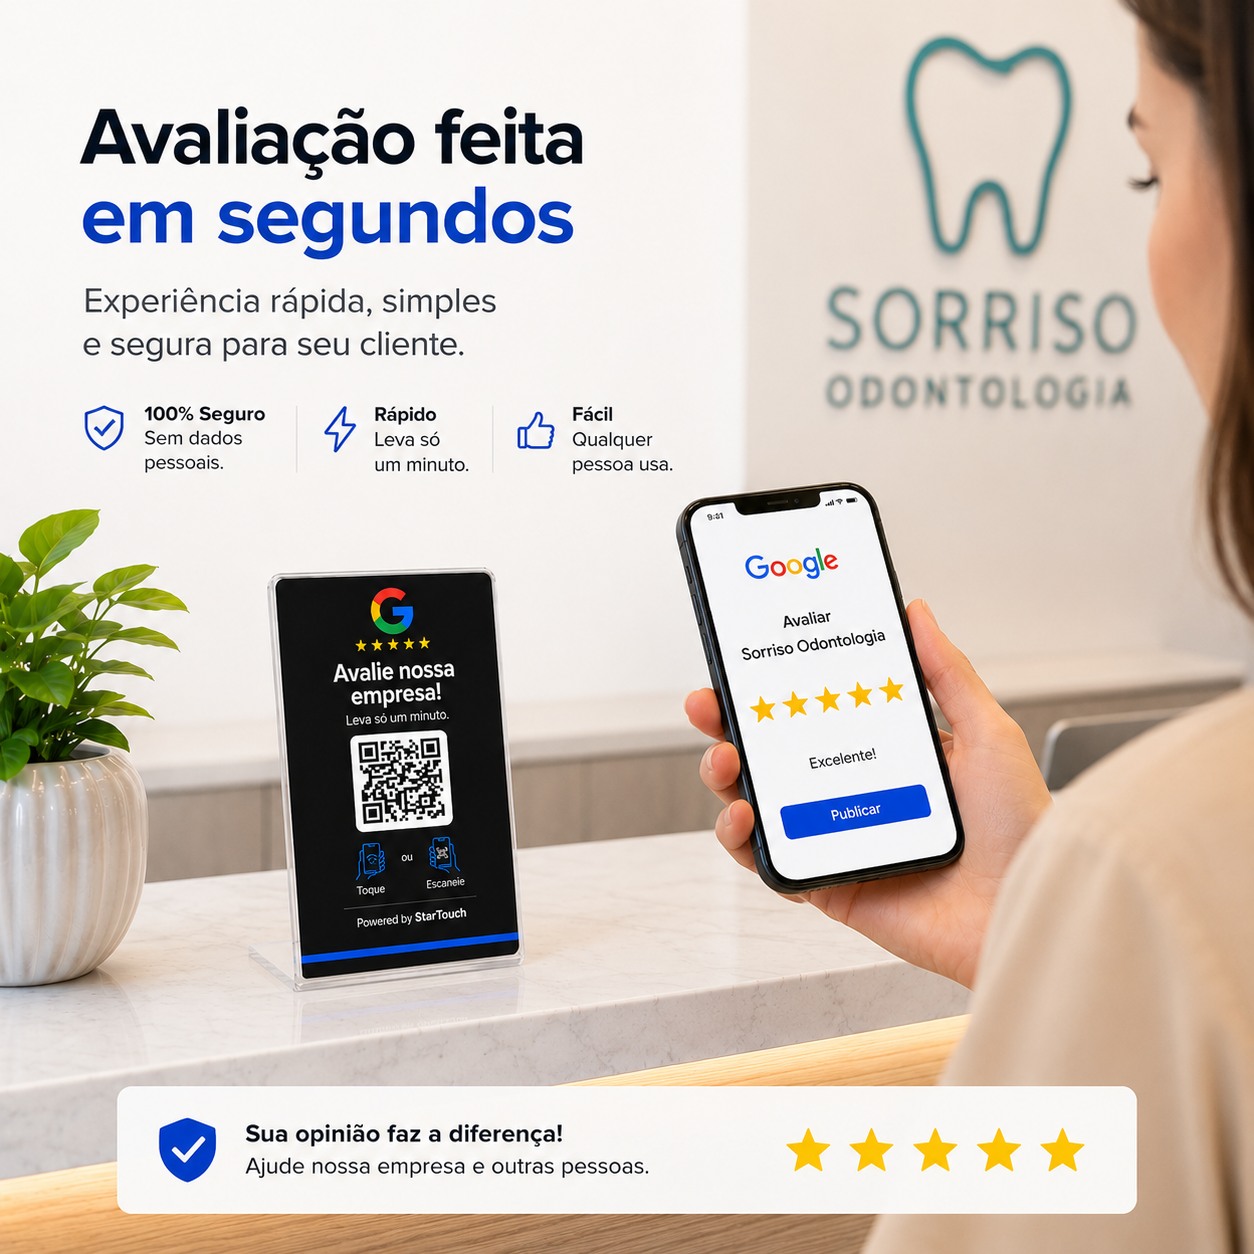
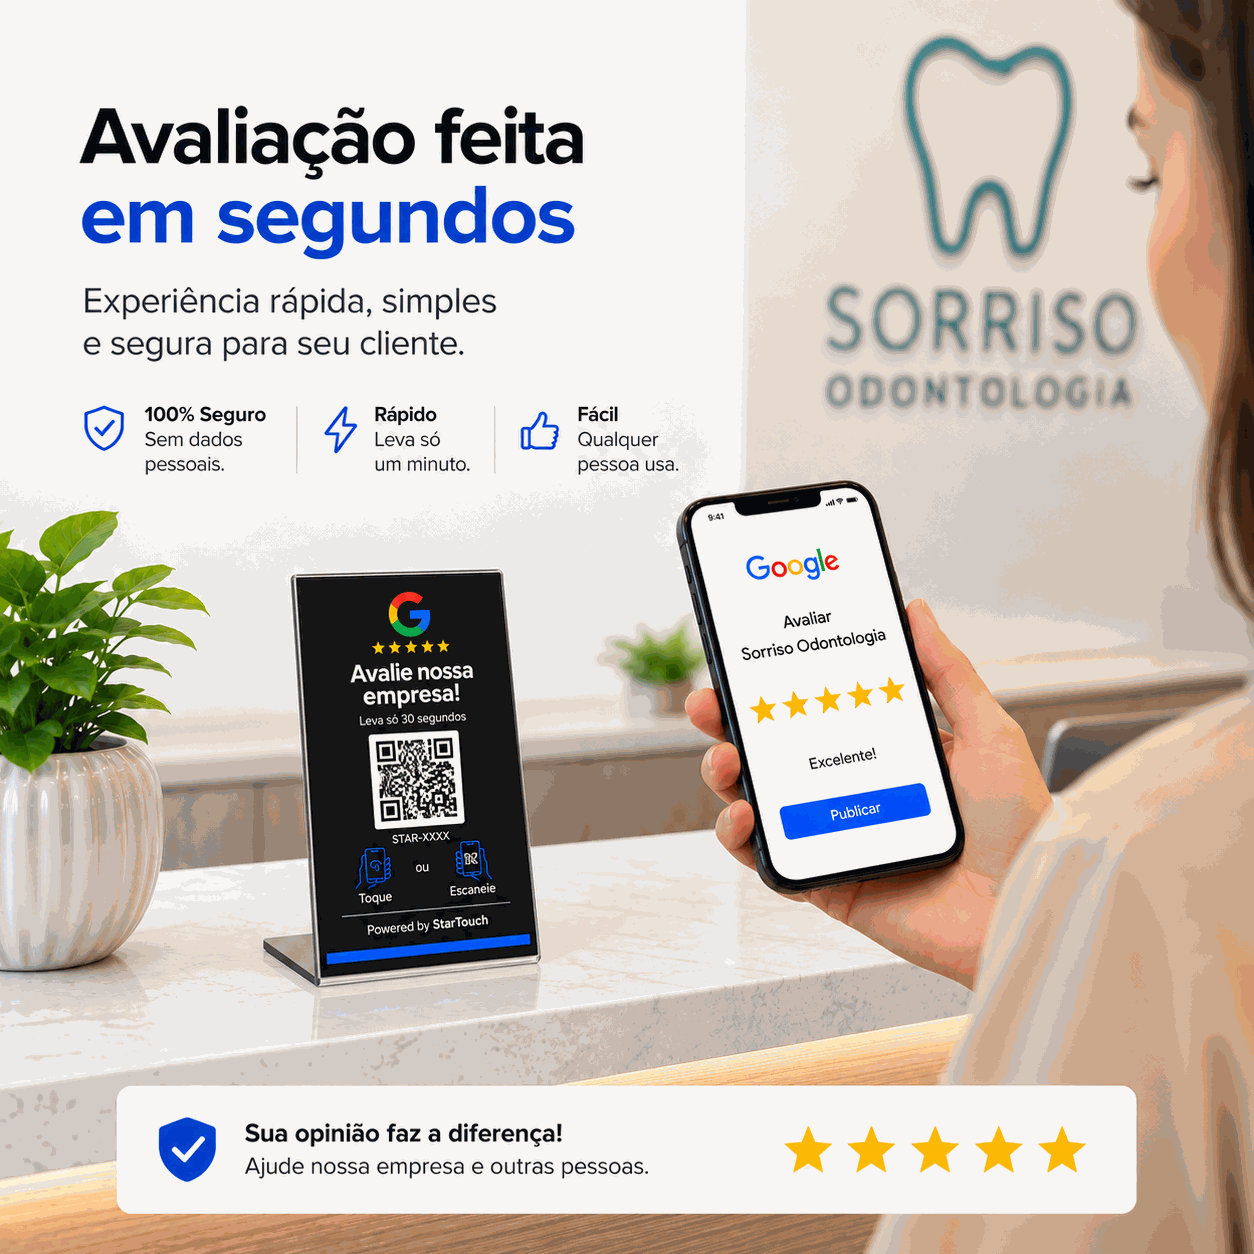
feat(produto): a ultima foto de acrilico sai do site
placa-m-4.png era a unica imagem em acrilico que ainda restava. A nova mostra
a M em PS preto numa recepcao de clinica, com a cliente avaliando pelo celular.

1.712 KB -> 198 KB.

Com ela fecha a migracao inteira de material, comecada ha algumas horas:
  · texto (material, dimensoes, acabamento) em 5 arquivos
  · 4 fotos de produto e 5 de ambiente
  · a foto do topo, que aparece na landing E na tela de ativacao
  · o catalogo do servidor, que e a imagem que vai pro checkout do Mercado Pago
  · o painel do cliente

O alt carrega as tres marcas impressas na imagem (100% seguro sem dados
pessoais, rapido, facil) — e a primeira delas e verdade verificavel neste
projeto: a pagina /avaliar nao tem GA4 nem Pixel desde 22/08, por decisao de
LGPD registrada no CLAUDE.md. Boa peca de marketing que por acaso descreve o
produto como ele e.

NOTA SOBRE A ARTE, pro Ricardo decidir: a imagem se contradiz sozinha. A placa
fotografada diz "Leva so 30 segundos" e o selo ao lado diz "Rapido — leva so
um minuto". Sao a arte nova e a antiga na mesma peca. Nao da pra consertar
daqui, e e o tipo de detalhe que ninguem nota ate um cliente notar.

Claude-Session: https://claude.ai/code/session_01S5eKpJUpAx1ZzX8rzRNBTg

diff --git a/public/landing.html b/public/landing.html
@@ -4639,7 +4639,7 @@
             <button class="eco-gallery-thumb is-active" type="button" data-full="/placa-m-1.png" aria-label="Ver foto — produto"><img src="/placa-m-1.png" alt="Placa de Balcão M em PS preto" loading="lazy"/></button>
             <button class="eco-gallery-thumb" type="button" data-full="/placa-m-2.png" aria-label="Ver foto — de frente"><img src="/placa-m-2.png" alt="Placa de Balcão M vista de frente — PS preto 2 mm" loading="lazy"/></button>
             <button class="eco-gallery-thumb" type="button" data-full="/placa-m-3.png" aria-label="Ver foto — recepção"><img src="/placa-m-3.png" alt="Placa de Balcão M na recepção de uma clínica odontológica: &quot;Ideal para recepções e balcões menores — compacta, elegante e fácil de instalar&quot;" loading="lazy"/></button>
-            <button class="eco-gallery-thumb" type="button" data-full="/placa-m-4.png" aria-label="Ver foto — avaliação em segundos"><img src="/placa-m-4.png" alt="Cliente avaliando no Google com a Placa de Balcão M" loading="lazy"/></button>
+            <button class="eco-gallery-thumb" type="button" data-full="/placa-m-4.png" aria-label="Ver foto — avaliação em segundos"><img src="/placa-m-4.png" alt="Cliente avaliando no Google pelo celular ao lado da Placa de Balcão M numa recepção: &quot;Avaliação feita em segundos — 100% seguro, sem dados pessoais; rápido; fácil, qualquer pessoa usa&quot;" loading="lazy"/></button>
           </div>
         </div>
         <div class="eco-gallery-body">
